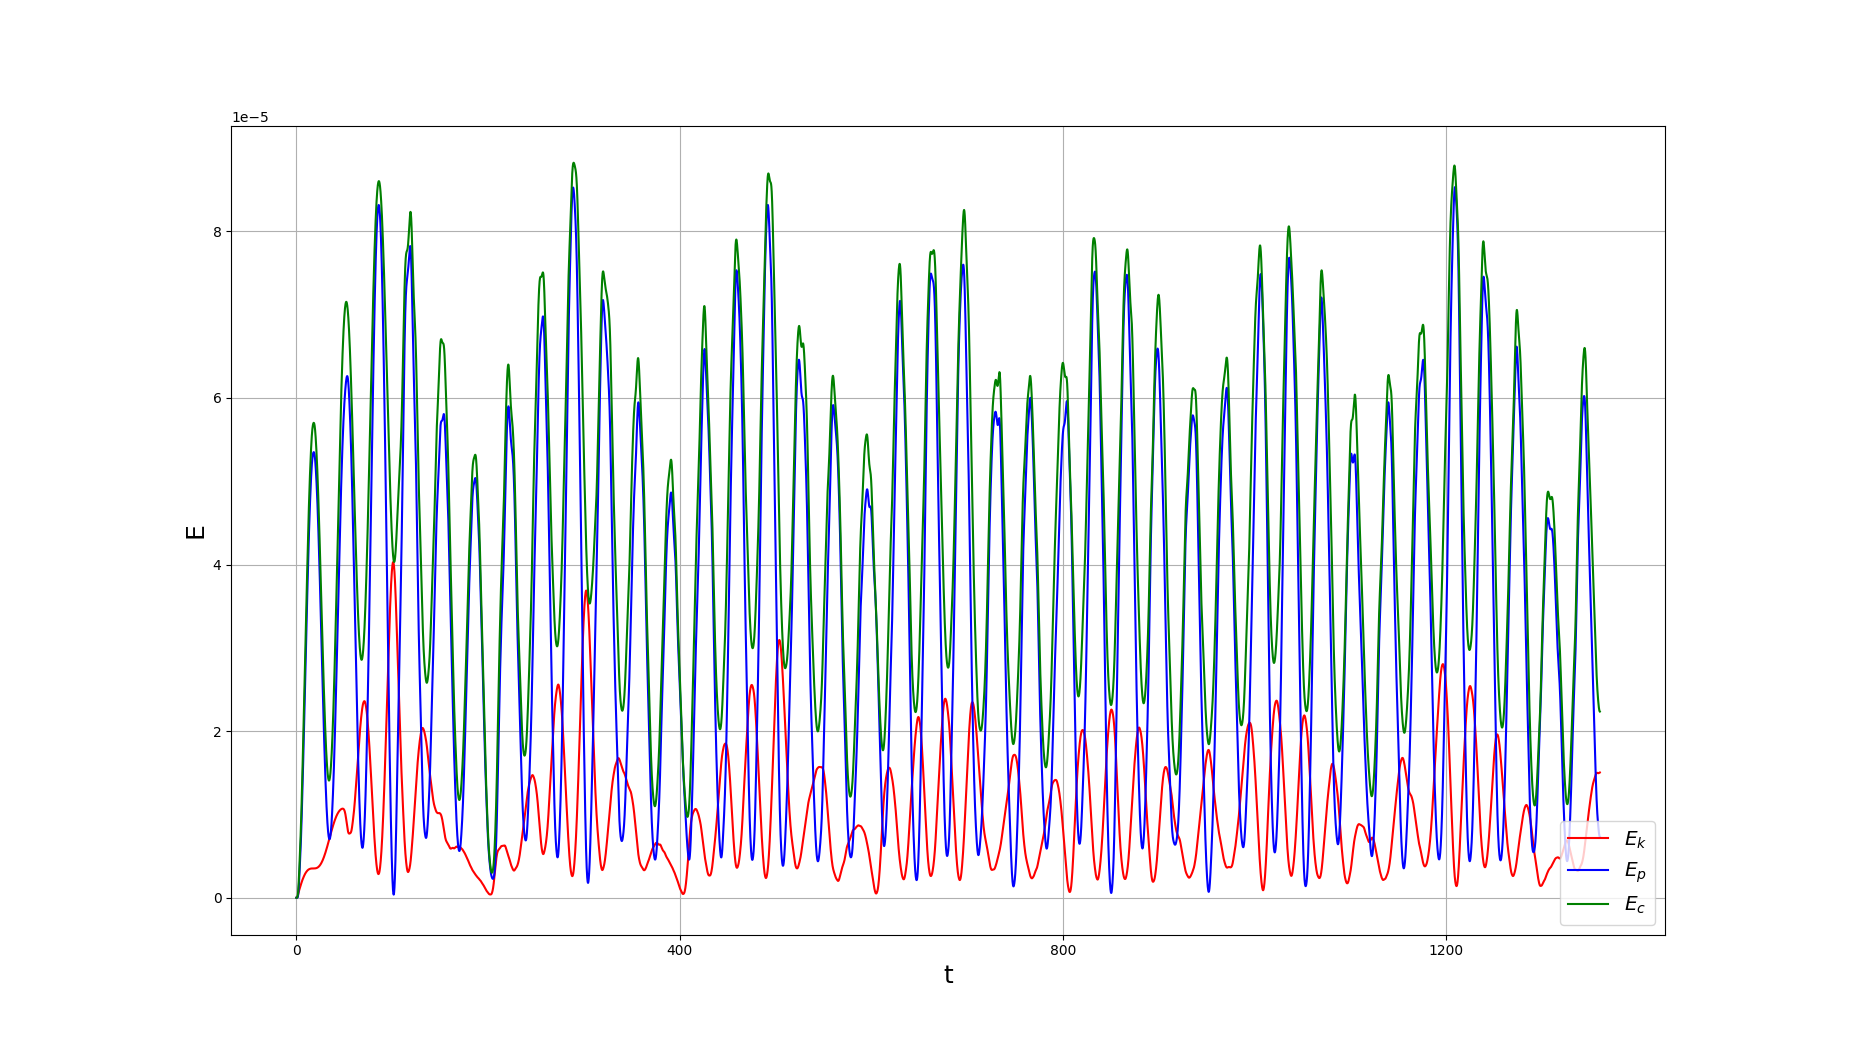
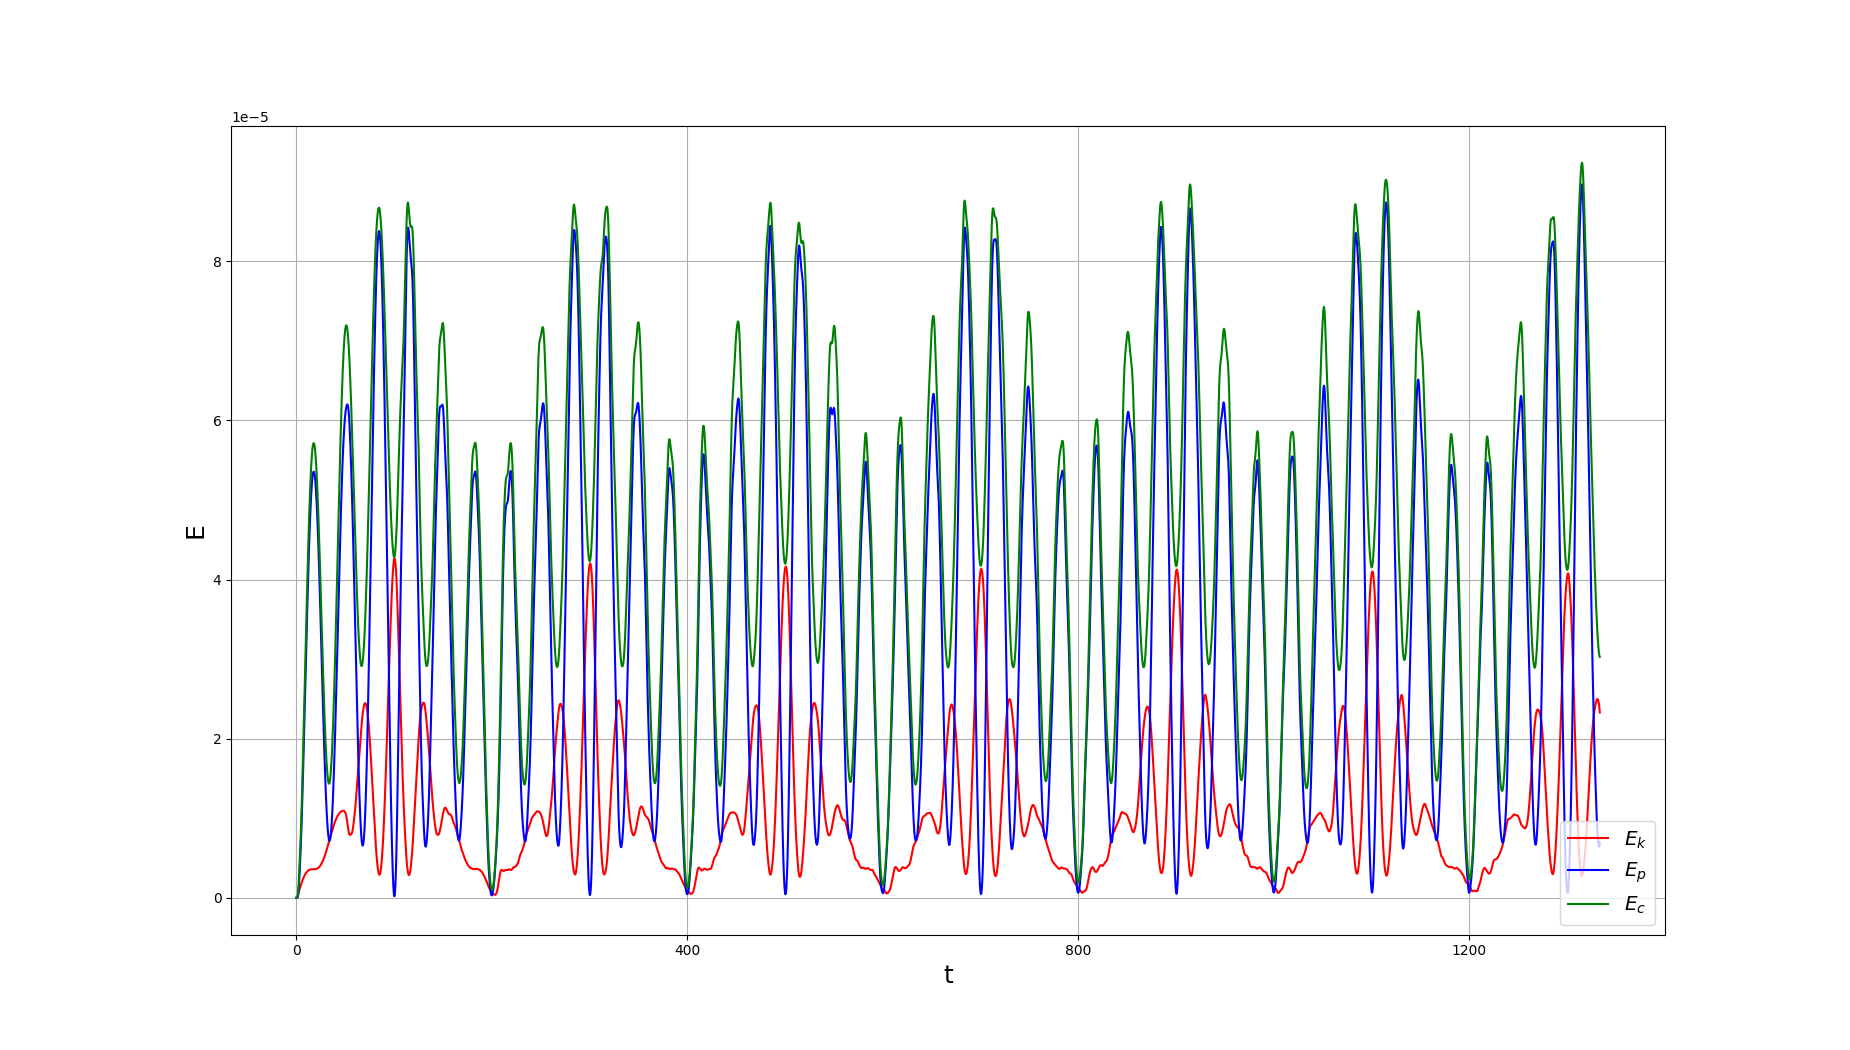
Fix

Changed region(s): [[0.1541, 0.1524, 0.8627, 0.8533], [0.7703, 0.8838, 0.8011, 0.9143], [0.5546, 0.8838, 0.5854, 0.9143]]

diff --git a/PFT/LAB_4/lab_4.py b/PFT/LAB_4/lab_4.py
@@ -190,7 +190,7 @@ class resonanse_atoms_chain(atoms_chain):
 		self._alpha = alpha
 		self._delta = delta
 		self._m = m
-		self._omega_n = 2* numpy.sqrt(self._alpha/self._m) * abs(numpy.sin(self._n*numpy.pi/(2*self._N)))
+		self._omega_n = 2* numpy.sqrt(self._alpha/self._m) * abs(numpy.sin(self._n*numpy.pi/(2*(self._N-1))))
 		self._t_max = 20*2*numpy.pi/self._omega_n
 		self._nt = int(self._t_max/self._dt)
 		self._x_t = [x_0]
@@ -252,15 +252,16 @@ def zad_2(n, nazwa_1, nazwa_2):
 	A.calculate()
 	A.rysuj_heat(nazwa_1, 400)
 	A.rysuj(nazwa_2, 400)
+	del A
 
-zad_1()
+#zad_1()
 
 #zad_2(0.9, 'zad_2_H_09', 'zad_2_E_09')
 #zad_2(1, 'zad_2_H_1', 'zad_2_E_1')
 #zad_2(1.1, 'zad_2_H_11', 'zad_2_E_11')
 #zad_2(1.5, 'zad_2_H_15', 'zad_2_E_15')
 #zad_2(2, 'zad_2_H_20', 'zad_2_E_20')
-#zad_2(5, 'zad_2_H_50', 'zad_2_E_50')
+zad_2(5, 'zad_2_H_50', 'zad_2_E_50')
 
 
 
